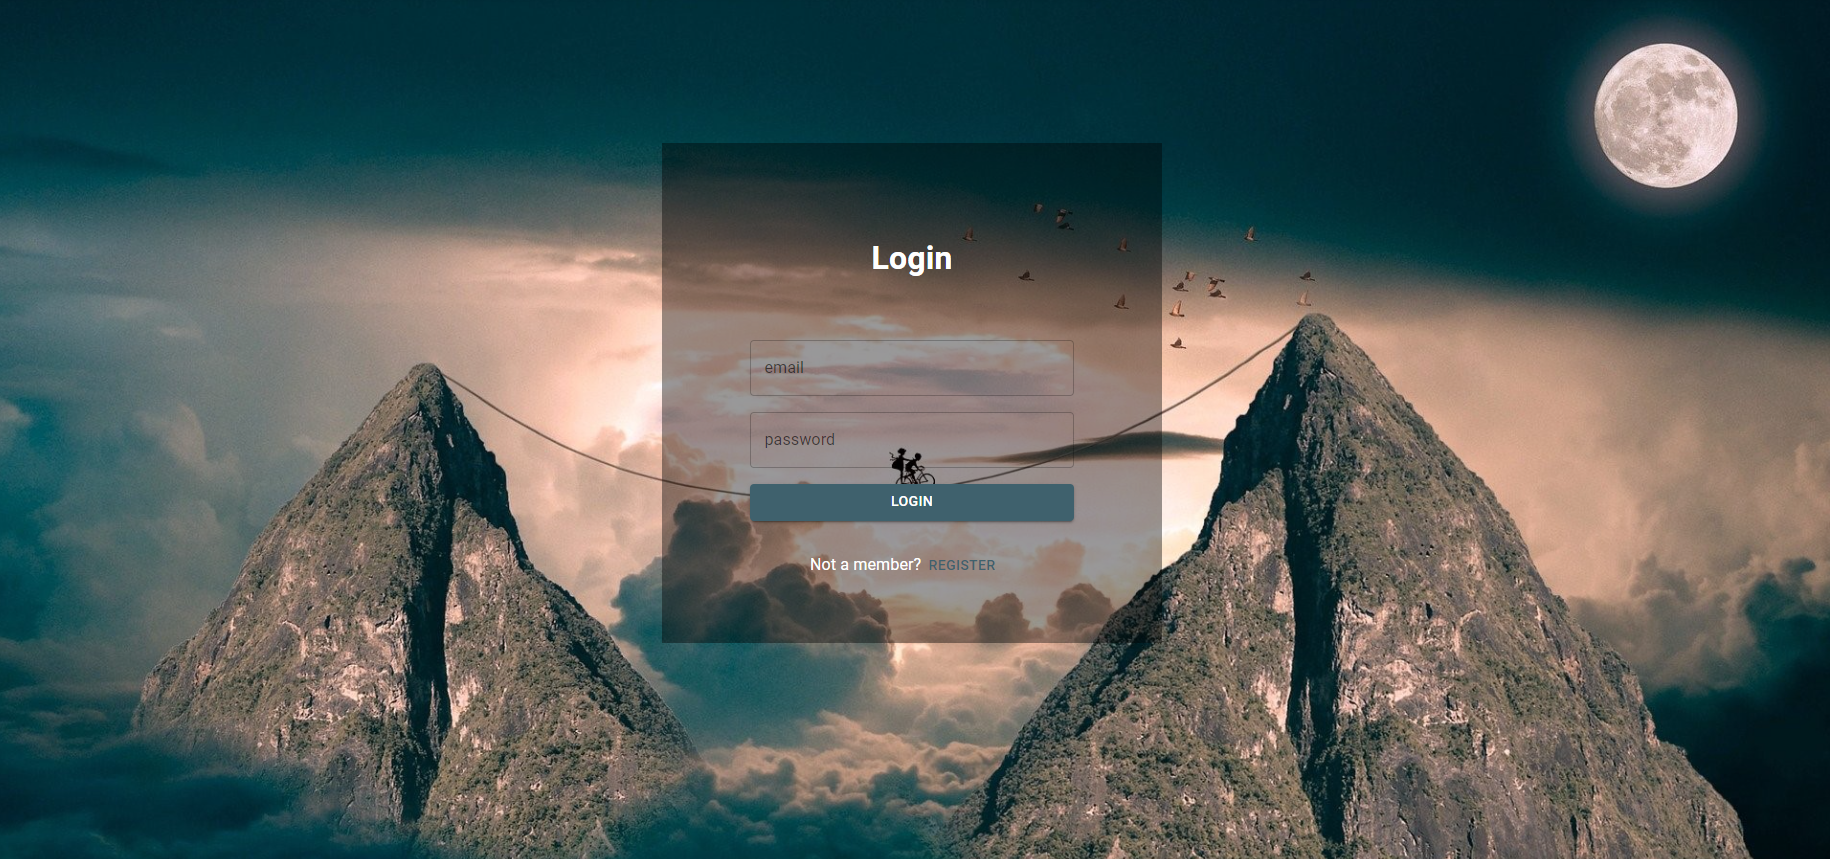
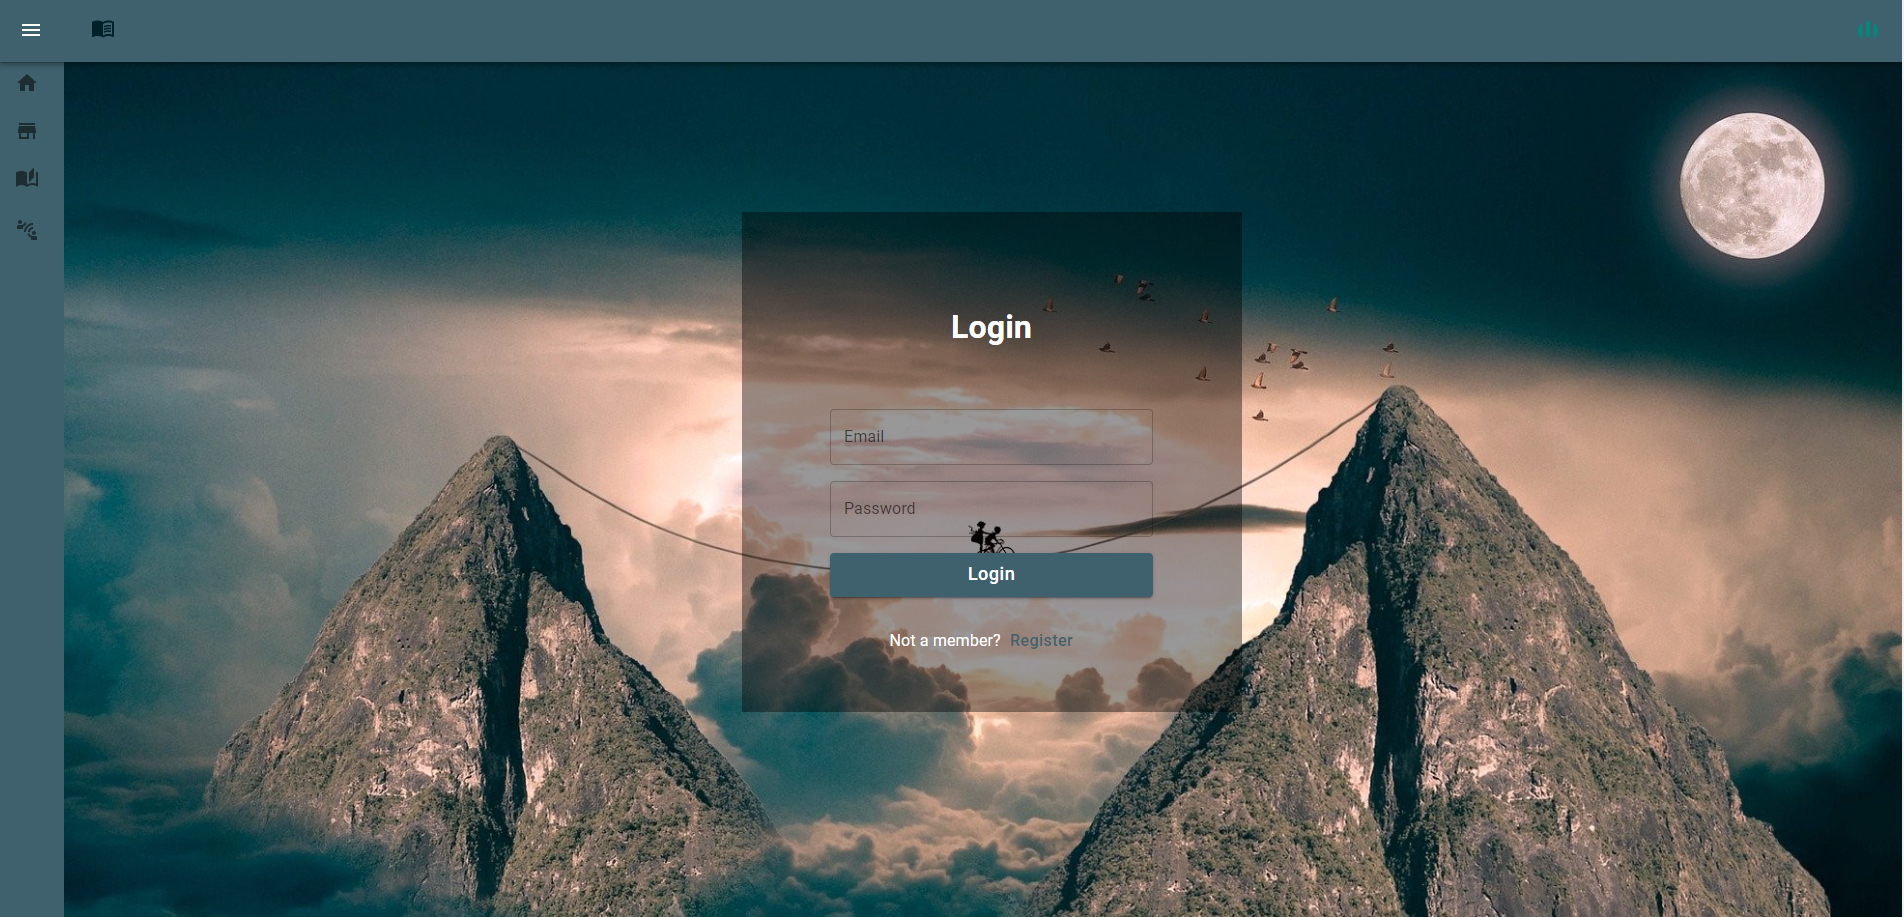
added the images to all three projects

diff --git a/src/components/Project.js b/src/components/Project.js
@@ -1,4 +1,4 @@
-import {React, useState} from "react";
+import { React, useState } from "react";
 import FlipCard from "./FlipCard";
 import ResumeScannerComputer3 from "../../src/ResumeScannerComputer3.png";
 import PokemonComputer from "../../src/PokemonComputer.png";
@@ -8,8 +8,27 @@ import CatchingPokemonIcon from "@mui/icons-material/CatchingPokemon";
 import Button from "@mui/material/Button";
 import ReadingList from "../../src/ReadingList.png";
 import Carosel from "./Carosel";
-
-
+import ReadingListLandingPage from "../ReadingListLandingPage.PNG"
+import Register from "../Register.PNG"
+import ReadingListLogin from "../ReadingListLogin.PNG"
+import ReadingListInventory from "../ReadingListInventory.PNG"
+import SubjectFilter from "../SubjectFilter.PNG"
+import BrowseBooks from "../BrowseBooks.PNG"
+import PokemonMadness from "../PokemonMadness.PNG"
+import TrainingGrounds from "../TrainingGrounds.PNG"
+import PokemonTeam from "../PokemonTeam.PNG"
+import PokemonBattle from "../PokemonBattle.PNG"
+import RegisterPokemon from "../RegisterPokemon.PNG"
+import LoginPokemon from "../LoginPokemon.PNG"
+import EditProfilePokemon from "../EditProfilePokemon.PNG"
+import ResumeScannerLandingPage from "../ResumeScannerLandingPage.PNG"
+import RegisterResume from "../RegisterResume.PNG"
+import LoginResume from "../LoginResume.PNG"
+import EditProfileResume from "../EditProfileResume.PNG"
+import ResumeScannerPage from "../ResumeScannerPage.PNG"
+import ResumeResults from "../ResumeResults.PNG"
+import ResumeAccountProfile from "../ResumeAccountProfile.PNG"
+import ResumeContactUs from "../ResumeContactUs.PNG"
 
 const cards = [
   {
@@ -114,31 +133,142 @@ const cards = [
     ),
   },
 ];
+const images = [
+  [
+    {
+      label: "Story Keeper",
+      imgPath:
+        ReadingListLandingPage,
+    },
+    {
+      label: "Register",
+      imgPath:
+        Register,
+    },
+    {
+      label: "Login",
+      imgPath:
+        ReadingListLogin,
+    },
+    {
+      label: "Edit Profile",
+      imgPath:
+        EditProfilePokemon,
+    },
+    {
+      label: "Browse Books",
+      imgPath:
+        BrowseBooks,
+    },
+    {
+      label: "Reading List",
+      imgPath:
+        ReadingListInventory,
+    },
+    {
+      label: "Subject Filter",
+      imgPath:
+        SubjectFilter,
+    },
+  ],
+  [
+    {
+      label: "Resume Scanner",
+      imgPath:
+        ResumeScannerLandingPage,
+    },
+    {
+      label: "Register",
+      imgPath:
+        RegisterResume,
+    },
+    {
+      label: "Login",
+      imgPath:
+        LoginResume,
+    },
+    {
+      label: "Edit Profile",
+      imgPath:
+        EditProfileResume,
+    },
+    {
+      label: "Scanning Page",
+      imgPath:
+        ResumeScannerPage,
+    },
+    {
+      label: "Results",
+      imgPath:
+        ResumeResults,
+    },
+    // {
+    //   label: "User Profile",
+    //   imgPath:
+    //     ResumeAccountProfile,
+    // },
+    {
+      label: "Contact Us",
+      imgPath:
+        ResumeContactUs,
+    },
+  ],
+  [
+    {
+      label: "PokemonMadness",
+      imgPath:
+        PokemonMadness,
+    },
+    {
+      label: "Register",
+      imgPath:
+        RegisterPokemon,
+    },
+    {
+      label: "Login",
+      imgPath:
+        LoginPokemon,
+    },
+    {
+      label: "Training Grounds",
+      imgPath:
+        TrainingGrounds,
+    },
+    {
+      label: "Pokemon Team",
+      imgPath:
+        PokemonTeam,
+    },
+    {
+      label: "Pokemon Battle",
+      imgPath:
+        PokemonBattle,
+    },
+  ],
+];
 
 export default function Project() {
-  const[project1, setProject1] = useState(false);
-  const[project2, setProject2] = useState(false);
-  const[project3, setProject3] = useState(false);
+  const [project1, setProject1] = useState(false);
+  const [project2, setProject2] = useState(false);
+  const [project3, setProject3] = useState(false);
 
   const renderCarosel = (id) => {
     console.log("test", id);
-    if (id == 1){
-      setProject1(true)
-      setProject2(false)
-      setProject3(false)
-    }
-    else if(id==2){
-      setProject1(false)
-      setProject2(true)
-      setProject3(false)
-    }
-    else if(id==3){
-      setProject1(false)
-      setProject2(false)
-      setProject3(true)
+    if (id == 1) {
+      setProject1(true);
+      setProject2(false);
+      setProject3(false);
+    } else if (id == 2) {
+      setProject1(false);
+      setProject2(true);
+      setProject3(false);
+    } else if (id == 3) {
+      setProject1(false);
+      setProject2(false);
+      setProject3(true);
     }
   };
-  
+
   return (
     <section id="project" style={{}}>
       <div style={{ fontSize: 25, textAlign: "center", fontWeight: "bold" }}>
@@ -150,16 +280,19 @@ export default function Project() {
         <div>
           <div class="col d-flex flex-column flex-md-row justify-content-around align-items-center">
             {cards.map((card) => (
-              <FlipCard key={card.id} card={card} renderCarosel={renderCarosel}/>
+              <FlipCard
+                key={card.id}
+                card={card}
+                renderCarosel={renderCarosel}
+              />
             ))}
           </div>
         </div>
       </div>
-      {project1?<Carosel />:""}
-      {project2?<Carosel />:""}
-      {project3?<Carosel />:""}
+      {project1 ? <Carosel images={images[0]} /> : ""}
+      {project2 ? <Carosel images={images[1]}  /> : ""}
+      {project3 ? <Carosel images={images[2]} /> : ""}
       {/* <Carosel /> */}
-
     </section>
   );
 }

diff --git a/src/components/Carosel.js b/src/components/Carosel.js
@@ -13,30 +13,10 @@ import { autoPlay } from 'react-swipeable-views-utils';
 const AutoPlaySwipeableViews = autoPlay(SwipeableViews);
 
 
-const images = [
-  {
-    label: 'San Francisco – Oakland Bay Bridge, United States',
-    imgPath:
-      'https://images.unsplash.com/photo-1537944434965-cf4679d1a598?auto=format&fit=crop&w=400&h=250&q=60',
-  },
-  {
-    label: 'Bird',
-    imgPath:
-      'https://images.unsplash.com/photo-1538032746644-0212e812a9e7?auto=format&fit=crop&w=400&h=250&q=60',
-  },
-  {
-    label: 'Bali, Indonesia',
-    imgPath:
-      'https://images.unsplash.com/photo-1537996194471-e657df975ab4?auto=format&fit=crop&w=400&h=250',
-  },
-  {
-    label: 'Goč, Serbia',
-    imgPath:
-      'https://images.unsplash.com/photo-1512341689857-198e7e2f3ca8?auto=format&fit=crop&w=400&h=250&q=60',
-  },
-];
 
-function SwipeableTextMobileStepper() {
+
+function SwipeableTextMobileStepper({images}) {
+
   const theme = useTheme();
   const [activeStep, setActiveStep] = React.useState(0);
   const maxSteps = images.length;
